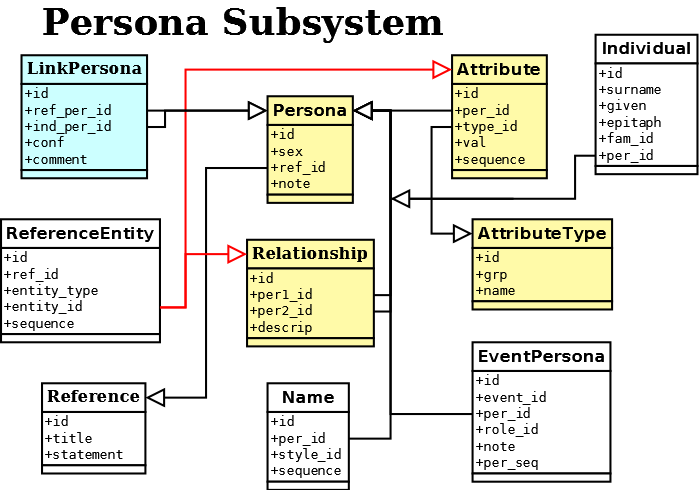
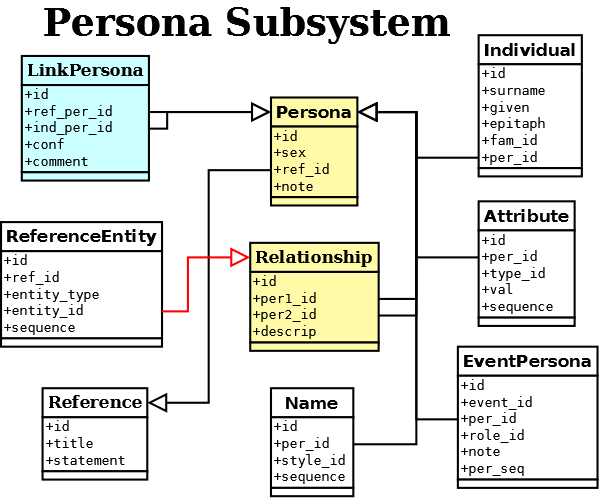
Add LinkAttribute table to database and update database version to TFPD-0-0-9-18. Update website with database changes, add website/db/sub/attributes.htm and drawings to website.
git-svn-id: https://svn.code.sf.net/p/thefamilypack/code/tfp/trunk@236 0b5b8454-fdc9-41d1-a9ee-242ce37e0c65

diff --git a/website/db/dbdesign.htm b/website/db/dbdesign.htm
@@ -108,28 +108,29 @@
    <tr>
     <td><a href="#FamilyIndividual">FamilyIndividual</a></td>
     <td><a href="#Individual">Individual</a></td>
+    <td><a href="#LinkAttribute">LinkAttribute</a></td>
     <td><a href="#LinkEvent">LinkEvent</a></td>
     <td><a href="#LinkPersona">LinkPersona</a></td>
     <td><a href="#Name">Name</a></td>
-    <td><a href="#NamePart">NamePart</a></td>
    </tr>
    <tr>
+    <td><a href="#NamePart">NamePart</a></td>
     <td><a href="#NamePartType">NamePartType</a></td>
     <td><a href="#NameStyle">NameStyle</a></td>
     <td><a href="#Persona">Persona</a></td>
     <td><a href="#Place">Place</a></td>
     <td><a href="#PlacePart">PlacePart</a></td>
-    <td><a href="#PlacePartType">PlacePartType</a></td>
    </tr>
    <tr>
+    <td><a href="#PlacePartType">PlacePartType</a></td>
     <td><a href="#Reference">Reference</a></td>
     <td><a href="#ReferenceEntity">ReferenceEntity</a></td>
     <td><a href="#Relationship">Relationship</a></td>
     <td><a href="#RelativeDate">RelativeDate</a></td>
     <td><a href="#Repository">Repository</a></td>
-    <td><a href="#RepositorySource">RepositorySource</a></td>
    </tr>
    <tr>
+    <td><a href="#RepositorySource">RepositorySource</a></td>
     <td><a href="#Researcher">Researcher</a></td>
     <td><a href="#Source">Source</a></td>
     <td><a href="#User">User</a></td>
@@ -578,6 +579,38 @@
      <td>per_id</td>
      <td>Integer</td>
      <td>Pointer to the default Persona.</td>
+    </tr>
+
+    <tr id="LinkAttribute">
+     <td colspan="3" class="filler"><a href="#">Top</a></td>
+    </tr>
+    <tr class="head">
+     <td colspan="3"><b>LinkAttribute</b></td>
+    </tr>
+    <tr>
+     <td>id</td>
+     <td class="nw">Integer PK</td>
+     <td>Unique key identifying a LinkAttribute record.</td>
+    </tr>
+    <tr>
+     <td>ref_att_id</td>
+     <td>Integer</td>
+     <td>Pointer to an Attribute associated with a Reference</td>
+    </tr>
+    <tr>
+     <td>ind_att_id</td>
+     <td>Integer</td>
+     <td>Pointer to an Attribute associated with an Individual</td>
+    </tr>
+    <tr>
+     <td>conf</td>
+     <td>Float</td>
+     <td>A value, less than one, to indicate the confidence that the link is correct</td>
+    </tr>
+    <tr>
+     <td>comment</td>
+     <td>Text</td>
+     <td>Optional comment that relates to the Reference Attribute - Individual Attribute link</td>
     </tr>
 
     <tr id="LinkEvent">

diff --git a/website/db/sub/attributes.htm b/website/db/sub/attributes.htm
@@ -1,13 +1,13 @@
 <!DOCTYPE html PUBLIC "-//W3C//DTD XHTML 1.0 Strict//EN" "http://www.w3.org/TR/xhtml1/DTD/xhtml1-strict.dtd">
 <html xmlns="http://www.w3.org/1999/xhtml" xml:lang="en" lang="en">
 <head>
-<title>The Family Pack - Database: Events</title>
+<title>The Family Pack - Database: Attributes</title>
 <meta http-equiv="Content-Type" content="text/html; charset=utf-8" />
 <link rel='stylesheet' type='text/css' href='../../tfp.css' />
 </head>
 <body>
 
-<h1><a  href="../../index.htm"><img id="logo" src="../../tfp5.gif" alt="Logo" /></a>The Family Pack<br/>Database: Events</h1>
+<h1><a  href="../../index.htm"><img id="logo" src="../../tfp5.gif" alt="Logo" /></a>The Family Pack<br/>Database: Personas</h1>
 
 <div id="page" class="database">
 
@@ -15,22 +15,22 @@
   <a href="../../index.htm" class="m-item">Home</a>
   <a href="../database.htm" class="m-item level1">Database</a>
   <a href="subsystems.htm" class="m-item level2">Subsystems</a>
-  <a href="events.htm" class="m-item level3 thispage">Events</a>
-  <a href="attributes.htm" class="m-item prev">&lt;&lt;</a>
-  <a href="individuals.htm" class="m-item next">&gt;&gt;</a>
+  <a href="attributes.htm" class="m-item level3 thispage">Attributes</a>
+  <a href="personas.htm" class="m-item prev">&lt;&lt;</a>
+  <a href="events.htm" class="m-item next">&gt;&gt;</a>
 </div>
 
 <div id="content" class="nomenu">
 
-<blockquote class="short">
+<blockquote>
 <p>
- And now the sequence of events in no particular order.
+ <!-- Quote -->
 </p>
-<p class="attribute">Dan Rather</p>
+<p class="attribute"><!-- Attr --></p>
 </blockquote>
 
-<div class="diag"><img src="tfp-event.png" alt="Event Subsystem" /></div>
-<h2>Events</h2>
+<div class="diag"><img src='tfp-attribute.png' alt='Attribute Subsystem' /></div>
+<h2>Attributes</h2>
 <p>
  Under construction.
 </p>
@@ -46,7 +46,7 @@
   </p>
 </div>
 
-<div id='create-date'><p> 7<sup>th</sup> September 2010</p></div>
+<div id='create-date'><p> 16<sup>th</sup> March 2012</p></div>
 
 </div>
 <!-- Piwik -->

diff --git a/website/map.htm b/website/map.htm
@@ -44,6 +44,7 @@
  <tr><td>- - -</td><td>- - -</td><td>- - -</td><td><a href="db/sub/places.htm" class="m-item">Places</a></td></tr>
  <tr><td>- - -</td><td>- - -</td><td>- - -</td><td><a href="db/sub/names.htm" class="m-item">Names</a></td></tr>
  <tr><td>- - -</td><td>- - -</td><td>- - -</td><td><a href="db/sub/personas.htm" class="m-item">Personas</a></td></tr>
+ <tr><td>- - -</td><td>- - -</td><td>- - -</td><td><a href="db/sub/attributes.htm" class="m-item">Attributes</a></td></tr>
  <tr><td>- - -</td><td>- - -</td><td>- - -</td><td><a href="db/sub/events.htm" class="m-item">Events</a></td></tr>
  <tr><td>- - -</td><td>- - -</td><td>- - -</td><td><a href="db/sub/individuals.htm" class="m-item">Individuals</a></td></tr>
  <tr><td>- - -</td><td><a href="com/common.htm" class="m-item">Common Data</a></td></tr>

diff --git a/website/db/sub/personas.htm b/website/db/sub/personas.htm
@@ -17,7 +17,7 @@
   <a href="subsystems.htm" class="m-item level2">Subsystems</a>
   <a href="personas.htm" class="m-item level3 thispage">Personas</a>
   <a href="names.htm" class="m-item prev">&lt;&lt;</a>
-  <a href="events.htm" class="m-item next">&gt;&gt;</a>
+  <a href="attributes.htm" class="m-item next">&gt;&gt;</a>
 </div>
 
 <div id="content" class="nomenu">
@@ -30,7 +30,7 @@
 </blockquote>
 
 <div class="diag"><img src='tfp-persona.png' alt='Place Subsystem' /></div>
-<h2>Personas and Attributes</h2>
+<h2>Personas</h2>
 <p>
  Personas are central to the database, they are used collect snippets of information found in records and then collected together to create individuals.
 </p>

diff --git a/website/db/sub/subsystems.htm b/website/db/sub/subsystems.htm
@@ -28,6 +28,7 @@
   <a href="places.htm" class="m-item">Places</a>
   <a href="names.htm" class="m-item">Names</a>
   <a href="personas.htm" class="m-item">Personas</a>
+  <a href="attributes.htm" class="m-item">Attributes</a>
   <a href="events.htm" class="m-item">Events</a>
   <a href="individuals.htm" class="m-item">Individuals</a>
   <a href="../../map.htm" class="m-item">Site Map</a>

diff --git a/src/rec/recLink.cpp b/src/rec/recLink.cpp
@@ -40,6 +40,124 @@
 #include <rec/recLink.h>
 
 //============================================================================
+//                 recLinkAttribute
+//============================================================================
+
+recLinkAttribute::recLinkAttribute( const recLinkAttribute& d )
+{
+    f_id         = d.f_id;
+    f_ref_att_id = d.f_ref_att_id;
+    f_ind_att_id = d.f_ind_att_id;
+    f_conf       = d.f_conf;
+    f_comment    = d.f_comment;
+}
+
+void recLinkAttribute::Clear()
+{
+    f_id         = 0;
+    f_ref_att_id = 0;
+    f_ind_att_id = 0;
+    f_conf       = 0;
+    f_comment    = wxEmptyString;
+}
+
+void recLinkAttribute::Save()
+{
+    wxSQLite3StatementBuffer sql;
+    wxSQLite3Table result;
+
+    if( f_id == 0 )
+    {
+        // Add new record
+        sql.Format(
+            "INSERT INTO LinkAttribute "
+            "(ref_att_id, ind_att_id, conf, comment) "
+            "VALUES ("ID", "ID", %f, '%q');",
+            f_ref_att_id, f_ind_att_id, f_conf, UTF8_(f_comment)
+        );
+        s_db->ExecuteUpdate( sql );
+        f_id = GET_ID( s_db->GetLastRowId() );
+    } else {
+        // Does record exist
+        if( !Exists() )
+        {
+            // Add new record
+            sql.Format(
+                "INSERT INTO LinkAttribute "
+                "(id, ref_att_id, ind_att_id, conf, comment) "
+                "VALUES ("ID", "ID", "ID", %f, '%q');",
+                f_id, f_ref_att_id, f_ind_att_id, f_conf, f_comment
+            );
+        } else {
+            // Update existing record
+            sql.Format(
+                "UPDATE LinkAttribute SET ref_att_id="ID", ind_att_id="ID", "
+                "conf=%f, comment='%q' "
+                "WHERE id="ID";",
+                f_ref_att_id, f_ind_att_id, f_conf,
+                UTF8_(f_comment), f_id
+            );
+        }
+        s_db->ExecuteUpdate( sql );
+    }
+}
+
+bool recLinkAttribute::Read()
+{
+    wxSQLite3StatementBuffer sql;
+    wxSQLite3Table result;
+
+    if( f_id == 0 ) {
+        Clear();
+        return false;
+    }
+
+    sql.Format(
+        "SELECT ref_att_id, ind_att_id, conf, comment "
+        "FROM LinkAttribute WHERE id="ID";",
+        f_id
+    );
+    result = s_db->GetTable( sql );
+
+    if( result.GetRowCount() != 1 )
+    {
+        Clear();
+        return false;
+    }
+    result.SetRow( 0 );
+    f_ref_att_id = GET_ID( result.GetInt64( 0 ) );
+    f_ind_att_id = GET_ID( result.GetInt64( 1 ) );
+    f_conf         = result.GetDouble( 2 );
+    f_comment      = result.GetAsString( 3 );
+    return true;
+}
+
+/*! Given the per_id and ind_id settings, find the matching record
+ *  and read in the full record.
+ */
+bool recLinkAttribute::Find()
+{
+    wxSQLite3StatementBuffer sql;
+    wxSQLite3Table result;
+
+    if( f_ind_att_id == 0 || f_ref_att_id == 0 ) return false; 
+
+    sql.Format(
+        "SELECT id, conf, comment FROM LinkAttribute "
+        "WHERE ref_att_id="ID" AND ind_att_id="ID";",
+        f_ref_att_id, f_ind_att_id
+    );
+    result = s_db->GetTable( sql );
+
+    if( result.GetRowCount() != 1 ) return false;
+    result.SetRow( 0 );
+    f_id      = GET_ID( result.GetInt64( 0 ) );
+    f_conf    = result.GetDouble( 1 );
+    f_comment = result.GetAsString( 2 );
+    return true;
+}
+
+//============================================================================
 //                 recLinkEvent
 //============================================================================
 

diff --git a/include/rec/recLink.h b/include/rec/recLink.h
@@ -34,6 +34,51 @@
 #include <rec/recEvent.h>
 
 //============================================================================
+//                 recLinkAttribute
+//============================================================================
+
+class recLinkAttribute : public recDb
+{
+public:
+    idt      f_ref_att_id;
+    idt      f_ind_att_id;
+    double   f_conf;
+    wxString f_comment;
+
+    recLinkAttribute() {}
+    recLinkAttribute( idt id ) : recDb(id) { Read(); }
+    recLinkAttribute( const recLinkAttribute& link );
+
+    void Clear();
+    void Save();
+    bool Read();
+    TABLE_NAME_MEMBERS( "LinkAttribute" );
+
+    bool Find();
+};
+
+/*! The two entities are equal, ignoring the record id.
+ */
+inline bool recEquivalent( const recLinkAttribute& d1, const recLinkAttribute& d2 )
+{
+    return
+        d1.f_ref_att_id == d2.f_ref_att_id &&
+        d1.f_ind_att_id == d2.f_ind_att_id &&
+        d1.f_conf         == d2.f_conf     &&
+        d1.f_comment      == d2.f_comment;
+}
+
+inline bool operator==( const recLinkAttribute& d1, const recLinkAttribute& d2 )
+{
+    return recEquivalent( d1, d2 ) && d1.f_id == d2.f_id;
+}
+
+inline bool operator!=( const recLinkAttribute& d1, const recLinkAttribute& d2 )
+{
+    return !(d1 == d2);
+}
+
+//============================================================================
 //                 recLinkEvent
 //============================================================================
 

diff --git a/src/rec/recVersion.cpp b/src/rec/recVersion.cpp
@@ -46,8 +46,8 @@
 const int recVerMajor    = 0;
 const int recVerMinor    = 0;
 const int recVerRev      = 9;
-const int recVerTest     = 17;
-const wxStringCharType* recVerStr = wxS("TFPD-0.0.9.17");
+const int recVerTest     = 18;
+const wxStringCharType* recVerStr = wxS("TFPD-0.0.9.18");
 
 
 recVersion::recVersion( const recVersion& v )
@@ -762,6 +762,23 @@ static void UpgradeTest0_0_9_16to0_0_9_17()
     recDb::Commit();
 }
 
+static void UpgradeTest0_0_9_17to0_0_9_18()
+{
+    char* query =
+        "CREATE TABLE LinkAttribute (\n"
+        "  id INTEGER PRIMARY KEY,\n"
+        "  ref_att_id INTEGER NOT NULL REFERENCES Attribute(id),\n"
+        "  ind_att_id INTEGER NOT NULL REFERENCES Attribute(id),\n"
+        "  conf FLOAT NOT NULL,\n"
+        "  comment TEXT\n"
+        ");\n"
+    ;
+    recDb::Begin();
+    recDb::GetDb()->ExecuteUpdate( query );
+    recVersion::Set( 0, 0, 9, 18 );
+    recDb::Commit();
+}
+
 
 static void UpgradeRev0_0_9toCurrent( int test )
 {
@@ -784,6 +801,7 @@ static void UpgradeRev0_0_9toCurrent( int test )
     case 14: UpgradeTest0_0_9_14to0_0_9_15();
     case 15: UpgradeTest0_0_9_15to0_0_9_16();
     case 16: UpgradeTest0_0_9_16to0_0_9_17();
+    case 17: UpgradeTest0_0_9_17to0_0_9_18();
     }
 }
 
